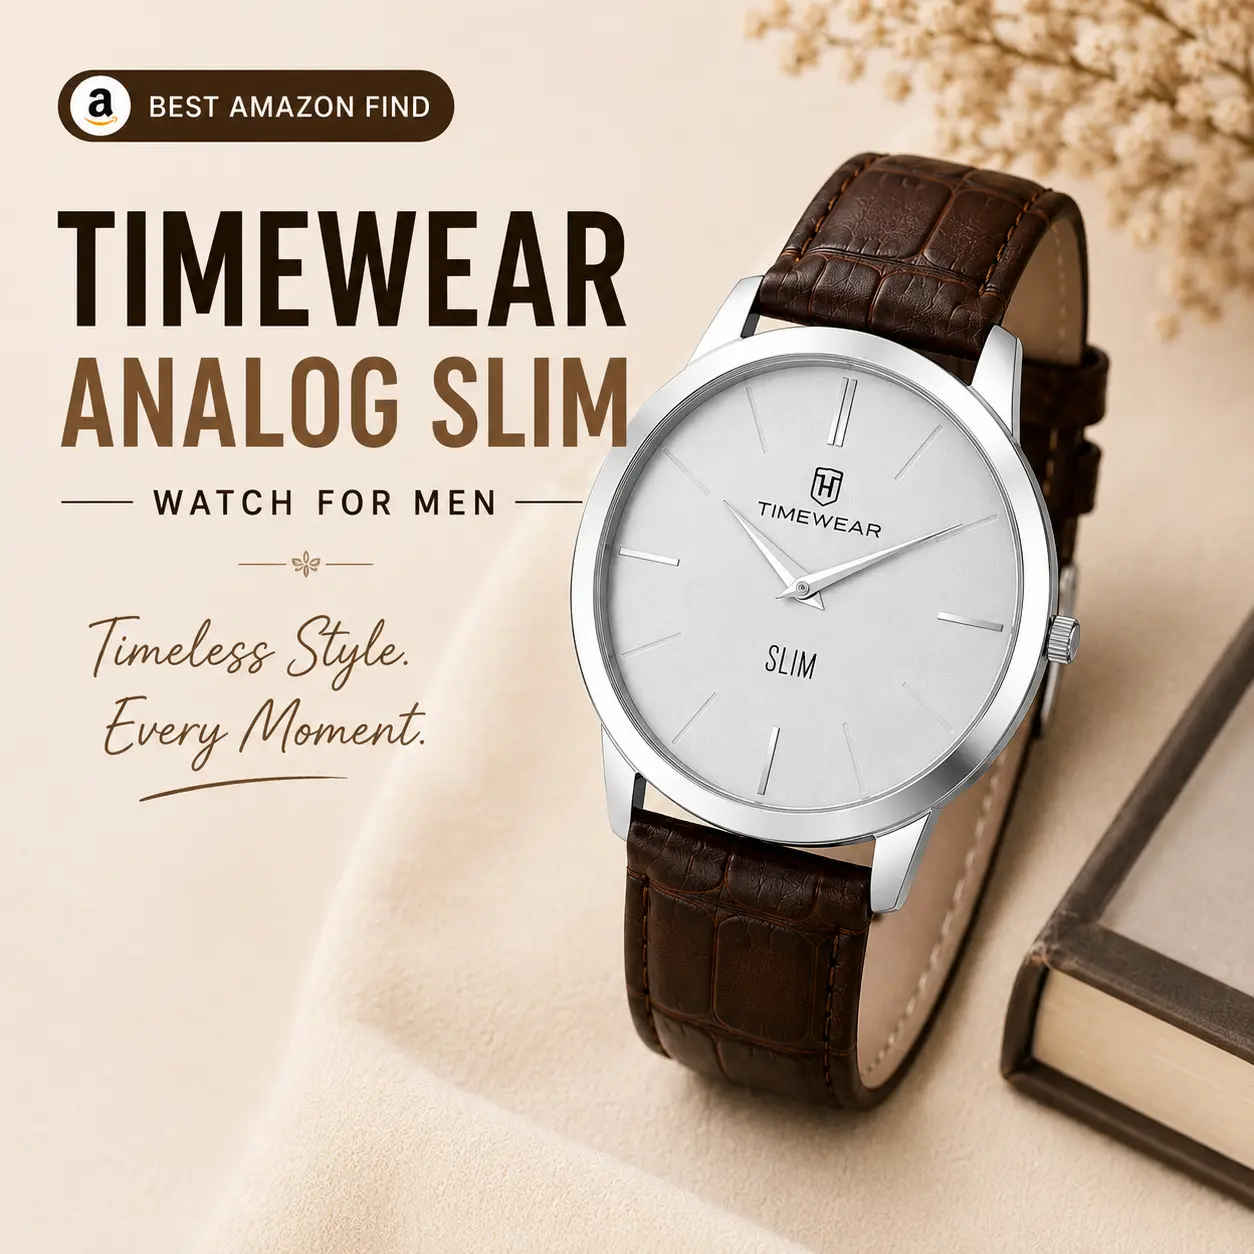
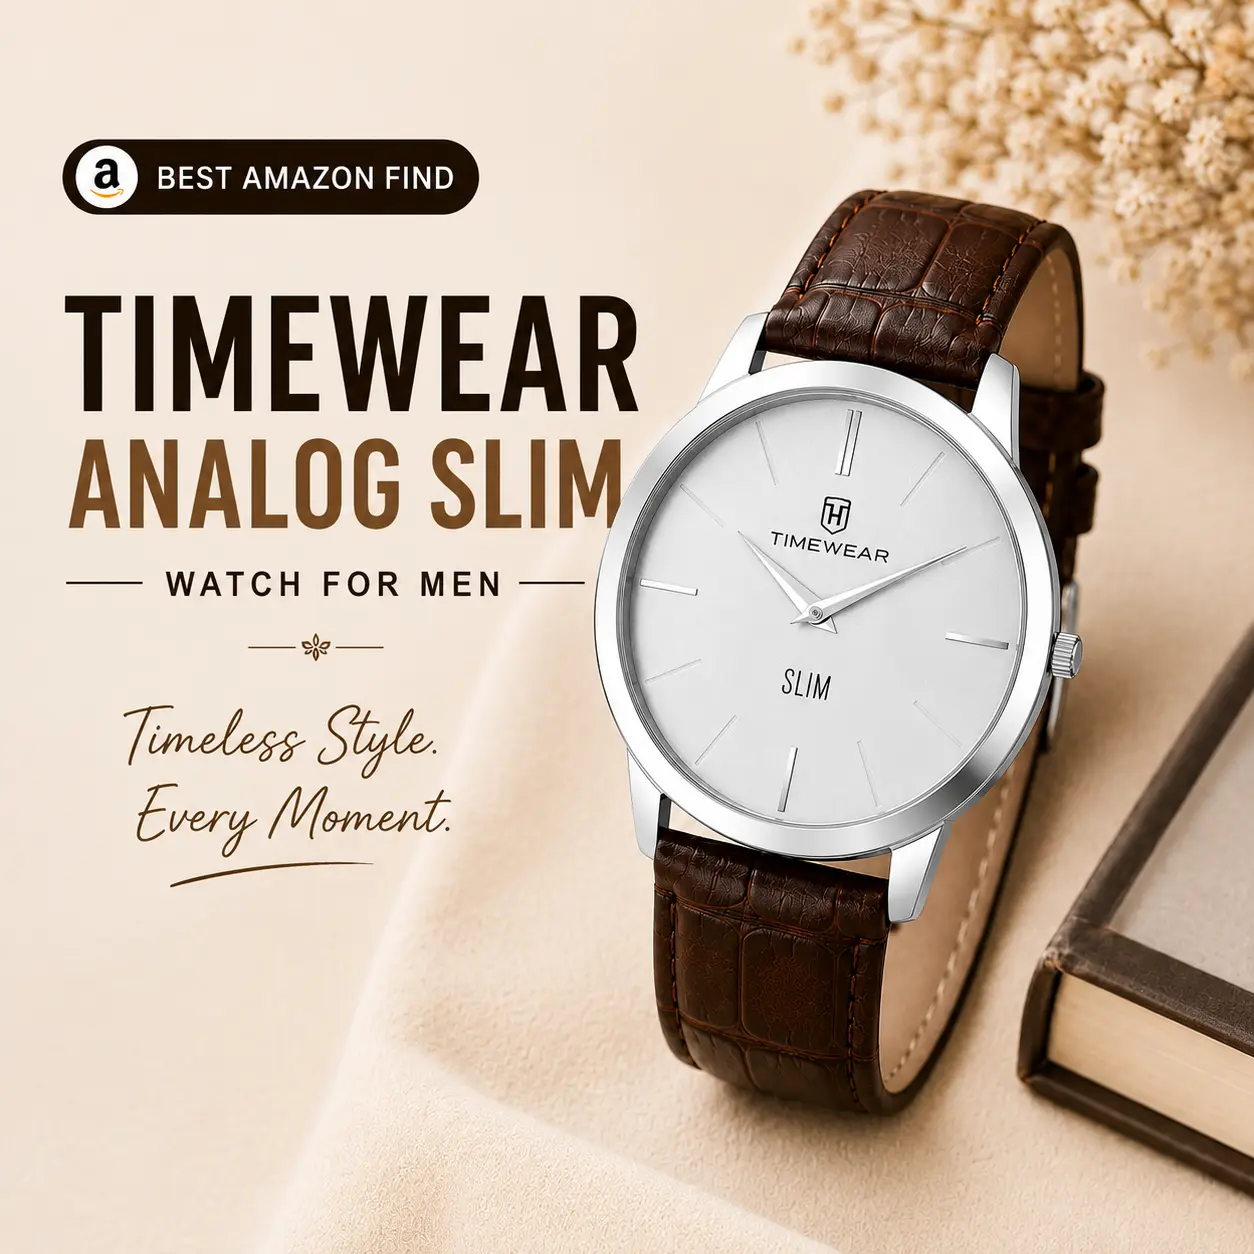
minor corrections

diff --git a/src/data/products.js b/src/data/products.js
@@ -48,6 +48,8 @@ import img_46 from "../assets/images/products/46.webp";
 import img_47 from "../assets/images/products/47.webp";
 import img_48 from "../assets/images/products/48.webp";
 import img_49 from "../assets/images/products/49.webp";
+import img_50 from "../assets/images/products/50.webp";
+import img_51 from "../assets/images/products/51.webp";
 
 // Product Data
 export const PRODUCTS = [
@@ -796,7 +798,7 @@ export const PRODUCTS = [
   },
   {
     id: 43,
-    title: "TIMEWEAR Analog Slim Two Hands Leather Strap Watch for Men",
+    title: "TIMEWEAR Analog Watch for Men",
     category: "Men's Fashion",
     tag: "Best Amazon Find",
     image: img_43,
@@ -904,7 +906,7 @@ export const PRODUCTS = [
   },
   {
     id: 49,
-    title: "LA GLARE Soft Fabric Sling Bag with Broad Strap & Coin Pouch",
+    title: "LA GLARE Soft Fabric Sling Bag",
     category: "Travel & Bags",
     tag: "Women's Accessories",
     image: img_49,
@@ -918,5 +920,41 @@ export const PRODUCTS = [
       "Proudly made in India with meticulous attention to stitching and material design."
     ],
     featured: true
-  }
+  },
+  {
+    id: 50,
+    title: "Cushioned Flip Flops for Men | Padded Fabric Strap Thong Slippers | Lightweight Anti-Slip EVA Sole",
+    category: "Footwear",
+    tag: "Best Seller",
+    image: img_50,
+    affiliateUrl: "https://amzn.to/4gIET3c",
+    description: "Experience all-day comfort with these lightweight men's flip flops.",
+    features: [
+      "Soft EVA cushioned sole for superior comfort",
+      "Premium padded fabric straps reduce irritation",
+      "Lightweight design for effortless everyday wear",
+      "Textured anti-slip outsole for better grip",
+      "Contoured footbed helps reduce foot fatigue",
+      "Great value at just ₹599"
+    ],
+    featured: false
+  },
+  {
+    id: 51,
+    title: "Styledose Rose Gold Diamond Studded Women's Watch",
+    category: "Women's Fashion",
+    tag: "Women's Watch",
+    image: img_51,
+    affiliateUrl: "https://amzn.to/4ambTud",
+    description: "A stylish rose gold analogue watch featuring a slim bracelet design and diamond-studded dial. Perfect for everyday elegance and gifting.",
+    features: [
+      "Diamond studded elegant dial",
+      "Premium rose gold bracelet strap",
+      "Slim & lightweight analogue design",
+      "Japanese quartz movement",
+      "Perfect gift for birthdays & anniversaries",
+      "Available for under ₹399"
+    ],
+    featured: false
+  },
 ];